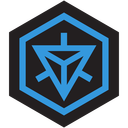
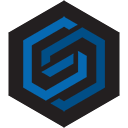
Version 1.0.0.2

diff --git a/src/chainparams.cpp b/src/chainparams.cpp
@@ -170,7 +170,7 @@ public:
         checkpointData = (CCheckpointData) {
             {
[3 lines of base64/hex data omitted]
             }
         };
 

diff --git a/README.md b/README.md
@@ -1,6 +1,6 @@
-EXVO Core
+![EXVO Core](https://i.imgur.com/TCJxWxo.png)
 
-[Website](https://exvo.io) — [Block Explorer](https://explorer.exvo.io/) — [Twitter](https://twitter.com/ExvoProject)
+[Website](https://exvo.io) — [Block Explorer](https://explorer.exvo.io/) — [Exchange](https://exvo.io/markets/exvobtc) — [Discord](https://discord.gg/83EMs) — [Twitter](https://twitter.com/ExvoProject)
 
 Features
 =============
